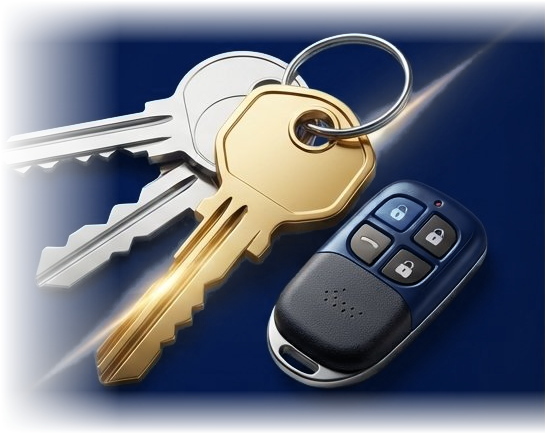
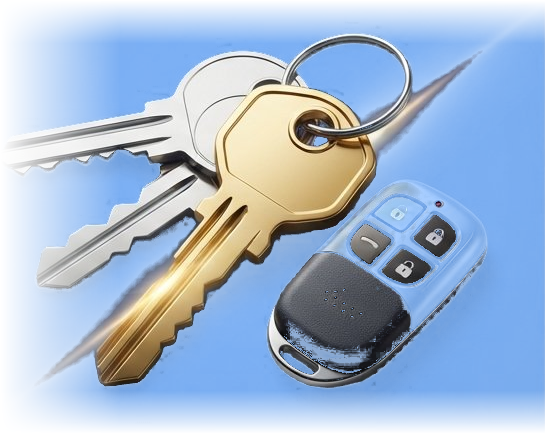
Navidad: los 4 estilos con degradado luminoso como el dorado, productos y ruleta en el color de cada uno
Claude-Session: https://claude.ai/code/session_01SXQ2G67n1zthcvrG685rs1

diff --git a/navidad.js b/navidad.js
@@ -15,10 +15,17 @@
 
   /* paletas de los tres estilos */
   var T = {
-    '1': {dark:true,  a:'#FFD43B', a2:'#F5B400', head:'#0A1530', cinta:'#07102a', hero:'linear-gradient(105deg,#050b1d 0%,#0a1a40 38%,#0b2a5c 64%,#0e2a58 100%)', band:'linear-gradient(180deg,#0b1a3a,#10244f 60%,#0a1630)', bg:'#070b18', bg2:'#0a1226', l1:'#FFD43B', l2:'#FFFFFF', sky1:'#0b1a3d', sky2:'#1d3f80', ink:'#0A1530', panel:'', swag:'#1f7a4d', swag2:'#E5303F'},
-    '2': {dark:false, a:'#FFD43B', a2:'#F5B400', head:'#9E1B26', cinta:'#7a1019', hero:'linear-gradient(105deg,#5a0a13 0%,#98192a 40%,#8a1824 64%,#78151f 100%)', band:'linear-gradient(100deg,#b3202d 0%,#8a1420 55%,#6e0f19 100%)', bg:'#FBF7F0', bg2:'#F3ECDF', l1:'#FF4655', l2:'#FFE9A8', sky1:'#4a0a12', sky2:'#8a1c28', ink:'#6e0f19', panel:'linear-gradient(160deg,#a51f2c 0%,#7d1019 55%,#5a0a13 100%)', swag:'#1f7a4d', swag2:'#FFD43B'},
-    '3': {dark:false, gold:true, a:'#D4AF37', a2:'#B8902A', head:'#F6EBCB', cinta:'#D9BC6A', hero:'linear-gradient(105deg,#FFFBEF 0%,#F8EAC2 38%,#EFD799 70%,#E3C27A 100%)', band:'linear-gradient(100deg,#FFFBEF 0%,#F6E6B8 46%,#E6C57C 100%)', bg:'#FFFBF0', bg2:'#F8EDCB', l1:'#E5303F', l2:'#D4AF37', sky1:'#0f2350', sky2:'#2a4a8a', ink:'#3d2f0c', panel:'linear-gradient(180deg,#FFFBEF 0%,#F4E2AE 60%,#E3C27A 100%)', swag:'#1f7a4d', swag2:'#E5303F'},
-    '4': {dark:false, a:'#FFD43B', a2:'#F5B400', head:'#0d5a33', cinta:'#9E1B26', hero:'linear-gradient(105deg,#052e19 0%,#0b5530 42%,#116a3b 68%,#0f5f35 100%)', band:'linear-gradient(100deg,#0e5a35 0%,#0b4a2b 52%,#8a1420 100%)', bg:'#F7FAF5', bg2:'#EAF1E7', l1:'#FF4655', l2:'#4FD18E', sky1:'#082b18', sky2:'#1b6b44', ink:'#06331d', panel:'linear-gradient(160deg,#0e5a35 0%,#07391f 55%,#8a1420 130%)', swag:'#1b7a49', swag2:'#E5303F'}
+    '1': {lum:true, a:'#2F6FCB', a2:'#1B4FA0', head:'#E6F0FF', cinta:'#7FB0F0', hero:'linear-gradient(105deg,#FFFFFF 0%,#E3EEFF 38%,#B5D2FA 70%,#8DB8F2 100%)', band:'linear-gradient(100deg,#FFFFFF 0%,#DCEAFF 46%,#9CC2F4 100%)', bg:'#FBFDFF', bg2:'#E4EFFE', l1:'#E5303F', l2:'#2F6FCB', sky1:'#0b1a3d', sky2:'#1d3f80', ink:'#0F2A55', panel:'linear-gradient(180deg,#FFFFFF 0%,#D6E6FD 60%,#9CC2F4 100%)', swag:'#1f7a4d', swag2:'#E5303F', gold:'#E8B50C'},
+    '2': {lum:true, a:'#C8283A', a2:'#A01420', head:'#FDE6E4', cinta:'#F08A92', hero:'linear-gradient(105deg,#FFFFFF 0%,#FDE4E1 38%,#F4A9AB 70%,#E5707A 100%)', band:'linear-gradient(100deg,#FFFFFF 0%,#FBDAD7 46%,#EE9097 100%)', bg:'#FFFCFB', bg2:'#FDE7E4', l1:'#C8283A', l2:'#E8B50C', sky1:'#4a0a12', sky2:'#8a1c28', ink:'#4a0f16', panel:'linear-gradient(180deg,#FFFFFF 0%,#FBD9D6 60%,#EE9097 100%)', swag:'#1f7a4d', swag2:'#E8B50C', gold:'#E8B50C'},
+    '3': {lum:true, a:'#D4AF37', a2:'#B8902A', head:'#F6EBCB', cinta:'#D9BC6A', hero:'linear-gradient(105deg,#FFFBEF 0%,#F8EAC2 38%,#EFD799 70%,#E3C27A 100%)', band:'linear-gradient(100deg,#FFFBEF 0%,#F6E6B8 46%,#E6C57C 100%)', bg:'#FFFBF0', bg2:'#F8EDCB', l1:'#E5303F', l2:'#D4AF37', sky1:'#0f2350', sky2:'#2a4a8a', ink:'#3d2f0c', panel:'linear-gradient(180deg,#FFFBEF 0%,#F4E2AE 60%,#E3C27A 100%)', swag:'#1f7a4d', swag2:'#E5303F', gold:'#E8B50C'},
+    '4': {lum:true, a:'#1E8F55', a2:'#0F6A3A', head:'#E3F4E8', cinta:'#8FD9AE', hero:'linear-gradient(105deg,#FFFFFF 0%,#E1F4E7 38%,#A9DDBD 70%,#6CBF8D 100%)', band:'linear-gradient(100deg,#FFFFFF 0%,#D5EFDD 46%,#86CCA3 100%)', bg:'#F8FCF9', bg2:'#DDEFE2', l1:'#E5303F', l2:'#1E8F55', sky1:'#082b18', sky2:'#1b6b44', ink:'#0a2f1a', panel:'linear-gradient(180deg,#FFFFFF 0%,#D3EEDB 60%,#86CCA3 100%)', swag:'#1b7a49', swag2:'#E5303F', gold:'#E8B50C'}
+  }[estilo];
+  /* tonos de texto y botones de cada estilo (mismo tratamiento luminoso que el dorado) */
+  var P = {
+    '1': {tx:'#0F2A55', tx2:'#2f4a7a', ac:'#1D5FB4', acc:'#B3202D', met:'linear-gradient(180deg,#6BA6F0 0%,#3677D1 55%,#1E55A8 100%)', mt:'#fff', bd:'#2F6FCB', snow:'#8DB8F2', cin:'linear-gradient(90deg,#4f8fe0,#BFD9FF 50%,#4f8fe0)', cit:'#0b1f44', reel:'linear-gradient(160deg,#FFFFFF,#BFD9FF)', hd:'linear-gradient(180deg,#FFFFFF,#E6F0FF)', body:'linear-gradient(180deg,#FBFDFF,#E4EFFE 55%,#FBFDFF)'},
+    '2': {tx:'#4a0f16', tx2:'#7a2a32', ac:'#B3202D', acc:'#0f5a34', met:'linear-gradient(180deg,#F26F7B 0%,#D02A39 55%,#A01420 100%)', mt:'#fff', bd:'#C8283A', snow:'#F08A92', cin:'linear-gradient(90deg,#C8283A,#F8B9BD 50%,#C8283A)', cit:'#3a0a10', reel:'linear-gradient(160deg,#FFFFFF,#F9C9CC)', hd:'linear-gradient(180deg,#FFFFFF,#FDE6E4)', body:'linear-gradient(180deg,#FFFCFB,#FDE7E4 55%,#FFFCFB)'},
+    '3': {tx:'#3d2f0c', tx2:'#5a4616', ac:'#9A7418', acc:'#8a1420', met:'linear-gradient(180deg,#F6E3A1 0%,#E2C063 50%,#C79A2C 100%)', mt:'#3d2f0c', bd:'#D4AF37', snow:'#E2C063', cin:'linear-gradient(90deg,#D4B25A,#F3E0A0 50%,#D4B25A)', cit:'#3d2f0c', reel:'linear-gradient(160deg,#FFFBEF,#EBD08A)', hd:'linear-gradient(180deg,#FFFEF9,#F6EBCB)', body:'linear-gradient(180deg,#FFFCF3,#F8EDCB 55%,#FFFCF3)'},
+    '4': {tx:'#0a2f1a', tx2:'#2d5a40', ac:'#157347', acc:'#B3202D', met:'linear-gradient(180deg,#58C68B 0%,#1E8F55 55%,#0F6A3A 100%)', mt:'#fff', bd:'#1E8F55', snow:'#6CBF8D', cin:'linear-gradient(90deg,#157347,#A9E3C0 50%,#157347)', cit:'#052414', reel:'linear-gradient(160deg,#FFFFFF,#C4E8D1)', hd:'linear-gradient(180deg,#FFFFFF,#E3F4E8)', body:'linear-gradient(180deg,#FAFDFB,#DDEFE2 55%,#FAFDFB)'}
   }[estilo];
 
   var css = '' +
@@ -109,42 +116,44 @@
   }
 
 
-  /* estilo 3: dorado champán luminoso (sin negro) */
-  if (T.gold){
-    var MET = 'linear-gradient(180deg,#F6E3A1 0%,#E2C063 50%,#C79A2C 100%)';
+  /* estilos luminosos: degradado suave del tono (igual que el dorado champán) */
+  if (T.lum){
     css += '' +
-    'body{background:linear-gradient(180deg,#FFFCF3,#F8EDCB 55%,#FFFCF3)!important;}' +
-    'header{background:linear-gradient(180deg,#FFFEF9,#F6EBCB)!important;border-bottom:3px solid #D4AF37!important;}' +
-    'header .brand-text,header .brand-text b{color:#9A7418!important;text-shadow:none!important;}' +
-    'header .brand-sub{color:#6b5320!important;}header .brand-rif{color:#4a3a12!important;}' +
-    'header .nav-links a{color:#4a3a12!important;}header .nav-links a:hover{color:#A67C1E!important;}' +
-    '.nv-cinta{background:linear-gradient(90deg,#D4B25A,#F3E0A0 50%,#D4B25A)!important;color:#3d2f0c!important;border-bottom:1px solid rgba(110,80,20,.2)!important;}' +
-    '.nv-cinta b{color:#8a1420!important;}' +
-    '.hero{border-bottom:4px solid #D4AF37!important;}' +
-    '.hero h1{background:linear-gradient(100deg,#6b4e12 0%,#9A7418 45%,#6b4e12 100%)!important;-webkit-background-clip:text!important;background-clip:text!important;color:transparent!important;filter:none!important;animation:none!important;}' +
-    '.hero p,.hero-stats div span{color:#5a4616!important;}' +
-    '.hero .eyebrow-badge{background:' + MET + '!important;color:#3d2f0c!important;border-color:#B8902A!important;}' +
-    '.hero .eyebrow-badge svg{color:#3d2f0c!important;}' +
-    '.hl-tags .tag{border-color:#9A7418!important;color:#4a3a12!important;}.hl-tags .tag svg{color:#6b5320!important;}' +
-    '.hero .btn-primary{background:' + MET + '!important;color:#3d2f0c!important;border:1px solid #B8902A!important;box-shadow:0 3px 10px rgba(150,110,20,.35);}' +
-    '.hero .btn-ghost{border-color:#9A7418!important;color:#4a3a12!important;}.hero .btn-ghost:hover{background:rgba(154,116,24,.10)!important;}' +
-    '.hero-stats div{background:rgba(255,255,255,.55)!important;border:1px solid rgba(154,116,24,.35)!important;}' +
-    '.hero-stats div b{color:#9A7418!important;}' +
+    'body{background:' + P.body + '!important;}' +
+    'header{background:' + P.hd + '!important;border-bottom:3px solid ' + P.bd + '!important;}' +
+    'header .brand-text,header .brand-text b{color:' + P.ac + '!important;text-shadow:none!important;}' +
+    'header .brand-sub{color:' + P.tx2 + '!important;}header .brand-rif{color:' + P.tx + '!important;}' +
+    'header .nav-links a{color:' + P.tx + '!important;}header .nav-links a:hover{color:' + P.ac + '!important;}' +
+    '.nv-cinta{background:' + P.cin + '!important;color:' + P.cit + '!important;border-bottom:1px solid rgba(0,0,0,.08)!important;}' +
+    '.nv-cinta b{color:' + P.acc + '!important;}' +
+    '.hero{border-bottom:4px solid ' + P.bd + '!important;}' +
+    '.hero h1{background:linear-gradient(100deg,' + P.tx + ' 0%,' + P.ac + ' 50%,' + P.tx + ' 100%)!important;-webkit-background-clip:text!important;background-clip:text!important;color:transparent!important;filter:none!important;animation:none!important;}' +
+    '.hero p,.hero-stats div span{color:' + P.tx2 + '!important;}' +
+    '.hero .eyebrow-badge{background:' + P.met + '!important;color:' + P.mt + '!important;border-color:' + P.bd + '!important;}' +
+    '.hero .eyebrow-badge svg{color:' + P.mt + '!important;}' +
+    '.hl-tags .tag{border-color:' + P.ac + '!important;color:' + P.tx + '!important;}.hl-tags .tag svg{color:' + P.ac + '!important;}' +
+    '.hero .btn-primary{background:' + P.met + '!important;color:' + P.mt + '!important;border:1px solid ' + P.bd + '!important;box-shadow:0 3px 10px rgba(0,0,0,.18);}' +
+    '.hero .btn-ghost{border-color:' + P.ac + '!important;color:' + P.tx + '!important;}.hero .btn-ghost:hover{background:rgba(0,0,0,.05)!important;}' +
+    '.hero-stats div{background:rgba(255,255,255,.58)!important;border:1px solid ' + P.bd + '55!important;}' +
+    '.hero-stats div b{color:' + P.ac + '!important;}' +
     '.hero-bg-image{background:none!important;}' +
-    '.hero-key-photo{filter:drop-shadow(0 10px 18px rgba(120,86,16,.35)) saturate(1.04)!important;}' +
+    '.hero-key-photo{filter:drop-shadow(0 10px 18px rgba(0,0,0,.28)) saturate(1.04)!important;}' +
     '.nv-banda::before{background:radial-gradient(circle,rgba(255,255,255,.7) 0 1.4px,transparent 2px)!important;opacity:.8!important;}' +
-    '.nv-texto,.nv-texto h2{color:#3d2f0c!important;}.nv-texto h2 span{color:#8a1420!important;}.nv-texto p{color:#5a4616!important;}' +
-    '.nv-kicker{background:' + MET + '!important;color:#3d2f0c!important;}' +
-    '.nv-dias{background:rgba(255,255,255,.6)!important;border-color:#C79A2C!important;}.nv-dias b{color:#8a1420!important;}.nv-dias small{color:#5a4616!important;}' +
-    '.nv-lado .nv-b1{background:' + MET + '!important;color:#3d2f0c!important;border:1px solid #B8902A;}' +
-    '.nv-nieve i{background:#E2C063!important;opacity:.9!important;box-shadow:0 0 4px rgba(226,192,99,.8);}' +
-    '.game-panel{border-color:#C79A2C!important;}' +
-    '.game-panel h3,.game-panel > p,.game-msg{color:#3d2f0c!important;}' +
-    '.reels{background:linear-gradient(160deg,#FFFBEF,#EBD08A)!important;border-color:#C79A2C!important;box-shadow:inset 0 3px 8px rgba(120,86,16,.22)!important;}' +
-    '.nv-badge{background:' + MET + '!important;color:#3d2f0c!important;}' +
-    '.chip.active{background:' + MET + '!important;color:#3d2f0c!important;border-color:#C79A2C!important;}' +
-    '.section-head h2{color:#4a3a12!important;}' +
-    '.nv-sel a{color:#fff;}.nv-sel a.on{background:#E2C063;color:#3d2f0c;}';
+    '.nv-texto,.nv-texto h2{color:' + P.tx + '!important;}.nv-texto h2 span{color:' + P.acc + '!important;}.nv-texto p{color:' + P.tx2 + '!important;}' +
+    '.nv-kicker{background:' + P.met + '!important;color:' + P.mt + '!important;}' +
+    '.nv-dias{background:rgba(255,255,255,.62)!important;border-color:' + P.bd + '!important;}.nv-dias b{color:' + P.acc + '!important;}.nv-dias small{color:' + P.tx2 + '!important;}' +
+    '.nv-lado .nv-b1{background:' + P.met + '!important;color:' + P.mt + '!important;border:1px solid ' + P.bd + ';}' +
+    '.nv-nieve i{background:' + P.snow + '!important;opacity:.9!important;box-shadow:0 0 4px ' + P.snow + ';}' +
+    '.game-panel{border-color:' + P.bd + '!important;}' +
+    '.game-panel h3,.game-panel > p,.game-msg{color:' + P.tx + '!important;}' +
+    '.reels{background:' + P.reel + '!important;border-color:' + P.bd + '!important;box-shadow:inset 0 3px 8px rgba(0,0,0,.15)!important;}' +
+    '.spin-btn{background:' + P.met + '!important;color:' + P.mt + '!important;border:1px solid ' + P.bd + '!important;box-shadow:0 3px 0 rgba(0,0,0,.28),0 8px 18px rgba(0,0,0,.22)!important;}' +
+    '.nv-badge{background:' + P.met + '!important;color:' + P.mt + '!important;}' +
+    '.chip.active{background:' + P.met + '!important;color:' + P.mt + '!important;border-color:' + P.bd + '!important;}' +
+    '.card-cat{color:' + P.ac + '!important;}' +
+    '.search-box:focus-within,.card:hover{border-color:' + P.bd + '!important;}' +
+    '.section-head h2{color:' + P.tx + '!important;}' +
+    '.nv-sel a{color:#fff;}.nv-sel a.on{background:' + T.gold + ';color:#2b1d00;}';
   }
 
   var st = document.createElement('style'); st.textContent = css; document.head.appendChild(st);
@@ -337,7 +346,7 @@
     /* selector de estilo (solo en la vista previa) */
     if (window.NV_VISTA){
       var sel = document.createElement('div'); sel.className = 'nv-sel';
-      sel.innerHTML = [['1','1 · Noche navideña'],['2','2 · Rojo clásico'],['3','3 · Dorado'],['4','4 · Verde y rojo']].map(function(o){
+      sel.innerHTML = [['1','1 · Azul'],['2','2 · Rojo'],['3','3 · Dorado'],['4','4 · Verde']].map(function(o){
         return '<a class="' + (o[0] === estilo ? 'on' : '') + '" href="?navidad=1&estilo=' + o[0] + '">' + o[1] + '</a>';
       }).join('');
       document.body.appendChild(sel);

diff --git a/vista-previa-navidad.html b/vista-previa-navidad.html
@@ -2191,6 +2191,6 @@ loadProducts();
 </script>
 <script src="halloween.js" defer></script>
 <script>window.NV_VISTA=true;</script>
-<script src="navidad.js?v=6" defer></script>
+<script src="navidad.js?v=7" defer></script>
 </body>
 </html>
